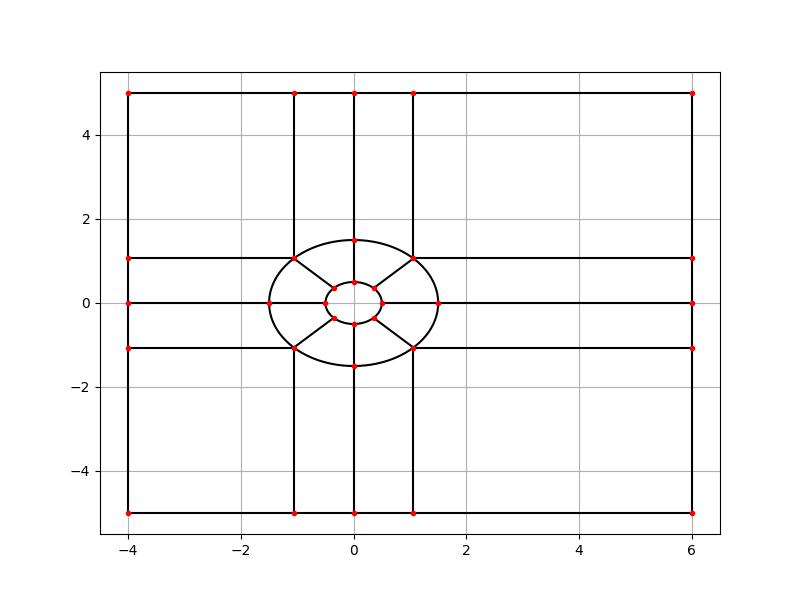
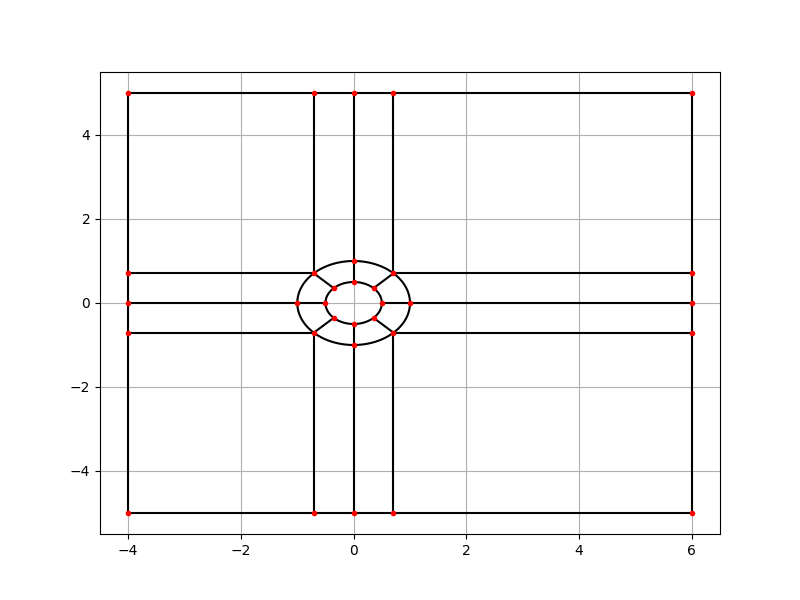
updates in

diff --git a/OF2/code/blockmeshDictA.py b/OF2/code/blockmeshDictA.py
@@ -24,8 +24,8 @@ if __name__ == "__main__":
     # Parameters for Mesh A
     D = 1 # diameter of cylinder
     Lf = 4
-    Lw = 8
-    R = 1 
+    Lw = 6
+    R = 1.0 
     H = 4
     
     N = 32 # NOTE: Treat this as a CONST variable
@@ -116,17 +116,17 @@ blocks
         if i == N//4+N//8:
             block = f"\
             // block {i}\n\
-            hex ({i+N//4+3} {i-1} {i+N//4+1} {i+N//4+2} {i+N//4+3+N} {i+N-1} {i+N//4+3+N-2} {i+N//4+3+N-1}) ({resX+5} {resY+10} {resZ}) simpleGrading ({1.5*gradeX:.4e} {4*gradeY:.4e} {gradeZ:.1e})\n\n"
+            hex ({i+N//4+3} {i-1} {i+N//4+1} {i+N//4+2} {i+N//4+3+N} {i+N-1} {i+N//4+3+N-2} {i+N//4+3+N-1}) ({resX+5} {resY+10} {resZ}) simpleGrading ({1.25*gradeX:.4e} {4*gradeY:.4e} {gradeZ:.1e})\n\n"
             blocks+=block
         if N//4+N//8 < i <= N//4+N//8+2:
             block = f"\
             // block {i}\n\
-            hex ({i+N//4+3} {i-1} {i-2} {i+N//4+2} {i+N//4+3+N} {i+N-1} {i+N-2} {i+N//4+3+N-1}) ({resX+5} {resY} {resZ}) simpleGrading ({1.5*gradeX:.4e} {gradeY:.4e} {gradeZ:.1e})\n\n"
+            hex ({i+N//4+3} {i-1} {i-2} {i+N//4+2} {i+N//4+3+N} {i+N-1} {i+N-2} {i+N//4+3+N-1}) ({resX+5} {resY} {resZ}) simpleGrading ({1.25*gradeX:.4e} {gradeY:.4e} {gradeZ:.1e})\n\n"
             blocks+=block
         if i == N//4+N//8 + 3:
             block = f"\
             // block {i}\n\
-            hex ({i+N//4+3} {i+N//4+N//8} {i-2} {i+N//4+2} {i+N//4+3+N} {i+N//4+N//8+N} {i+N-2} {i+N//4+2+N}) ({resX+5} {resY+10} {resZ}) simpleGrading ({1.5*gradeX:.4e} {2.5*gradeY:.4e} {gradeZ:.1e})\n\n"
+            hex ({i+N//4+3} {i+N//4+N//8} {i-2} {i+N//4+2} {i+N//4+3+N} {i+N//4+N//8+N} {i+N-2} {i+N//4+2+N}) ({resX+5} {resY+10} {resZ}) simpleGrading ({1.25*gradeX:.4e} {2.5*gradeY:.4e} {gradeZ:.1e})\n\n"
             blocks+=block
         if N//2 <= i <= N//2 + 1:
             block = f"\

diff --git a/OF2/code/blockmeshDictB.py b/OF2/code/blockmeshDictB.py
@@ -80,8 +80,8 @@ blocks
 (
 """
 
-    resX = 50
-    resY = 60
+    resX = 25
+    resY = 50
     resZ = 1
     gradeX = 2
     gradeY = 1
@@ -116,7 +116,7 @@ blocks
         if i == N//4+N//8:
             block = f"\
             // block {i}\n\
-            hex ({i+N//4+3} {i-1} {i+N//4+1} {i+N//4+2} {i+N//4+3+N} {i+N-1} {i+N//4+3+N-2} {i+N//4+3+N-1}) ({resX+5} {resY+10} {resZ}) simpleGrading ({1.5*gradeX:.4e} {4*gradeY:.4e} {gradeZ:.1e})\n\n"
+            hex ({i+N//4+3} {i-1} {i+N//4+1} {i+N//4+2} {i+N//4+3+N} {i+N-1} {i+N//4+3+N-2} {i+N//4+3+N-1}) ({resX+5} {resY+10} {resZ}) simpleGrading ({1.25*gradeX:.4e} {4*gradeY:.4e} {gradeZ:.1e})\n\n"
             blocks+=block
         if N//4+N//8 < i <= N//4+N//8+2:
             block = f"\
@@ -126,7 +126,7 @@ blocks
         if i == N//4+N//8 + 3:
             block = f"\
             // block {i}\n\
-            hex ({i+N//4+3} {i+N//4+N//8} {i-2} {i+N//4+2} {i+N//4+3+N} {i+N//4+N//8+N} {i+N-2} {i+N//4+2+N}) ({resX+5} {resY+10} {resZ}) simpleGrading ({1.5*gradeX:.4e} {2.5*gradeY:.4e} {gradeZ:.1e})\n\n"
+            hex ({i+N//4+3} {i+N//4+N//8} {i-2} {i+N//4+2} {i+N//4+3+N} {i+N//4+N//8+N} {i+N-2} {i+N//4+2+N}) ({resX+5} {resY+10} {resZ}) simpleGrading ({1.25*gradeX:.4e} {2.5*gradeY:.4e} {gradeZ:.1e})\n\n"
             blocks+=block
         if N//2 <= i <= N//2 + 1:
             block = f"\

diff --git a/OF2/code/blockmeshvertices.py b/OF2/code/blockmeshvertices.py
@@ -37,8 +37,8 @@ def arcvertices(D,R,N=32):
             pinner[0,i] = (D/2)*np.cos(theta[i])
             pinner[1,i] = (D/2)*np.sin(theta[i])
 
-            pouter[0,i] = (D/2 + R)*np.cos(theta[i])
-            pouter[1,i] = (D/2 + R)*np.sin(theta[i])
+            pouter[0,i] = (R)*np.cos(theta[i])
+            pouter[1,i] = (R)*np.sin(theta[i])
 
         return pinner, pouter
 
@@ -177,7 +177,7 @@ if __name__ == "__main__":
 
     Lf = 4
     Lw = 6
-    R = 1 
+    R = 1
     H = 5
 
     cylinder,outer = arcvertices(D,R,N)
@@ -193,7 +193,7 @@ if __name__ == "__main__":
 
     # for arcs
     cylinder = drawcircle(D/2)
-    boundarycircle = drawcircle(R+D/2)
+    boundarycircle = drawcircle(R)
 
 
     # for box 
